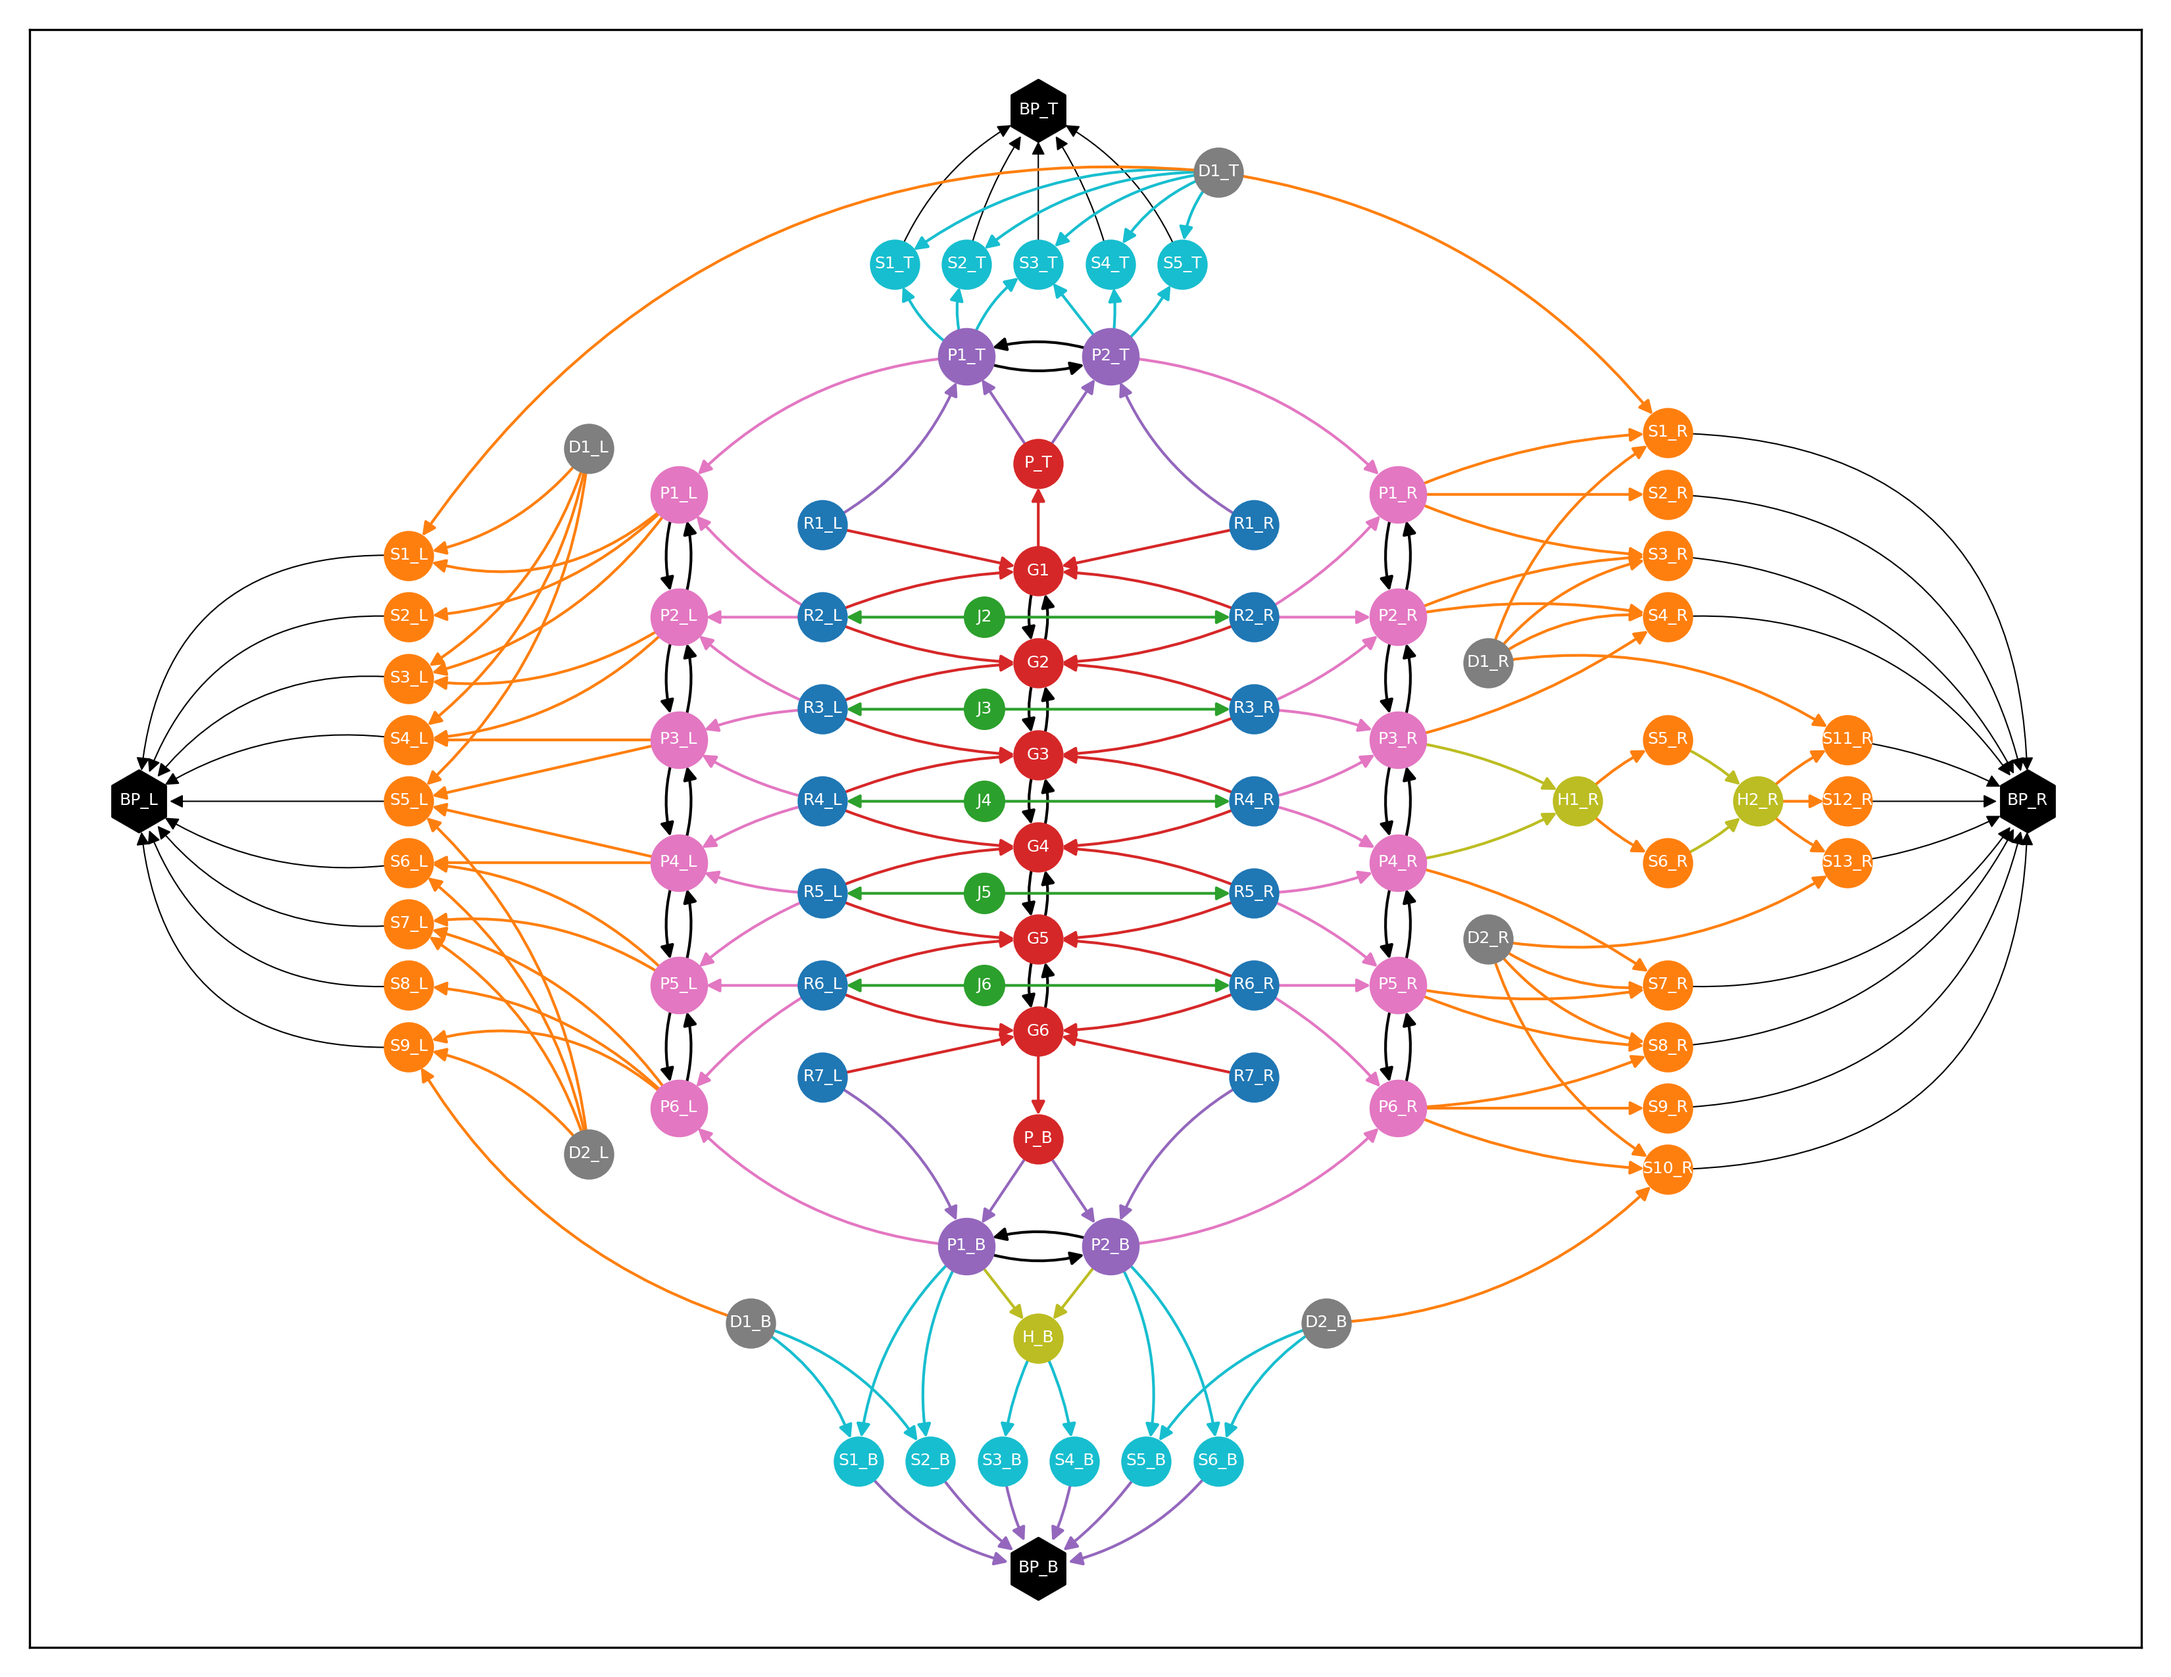
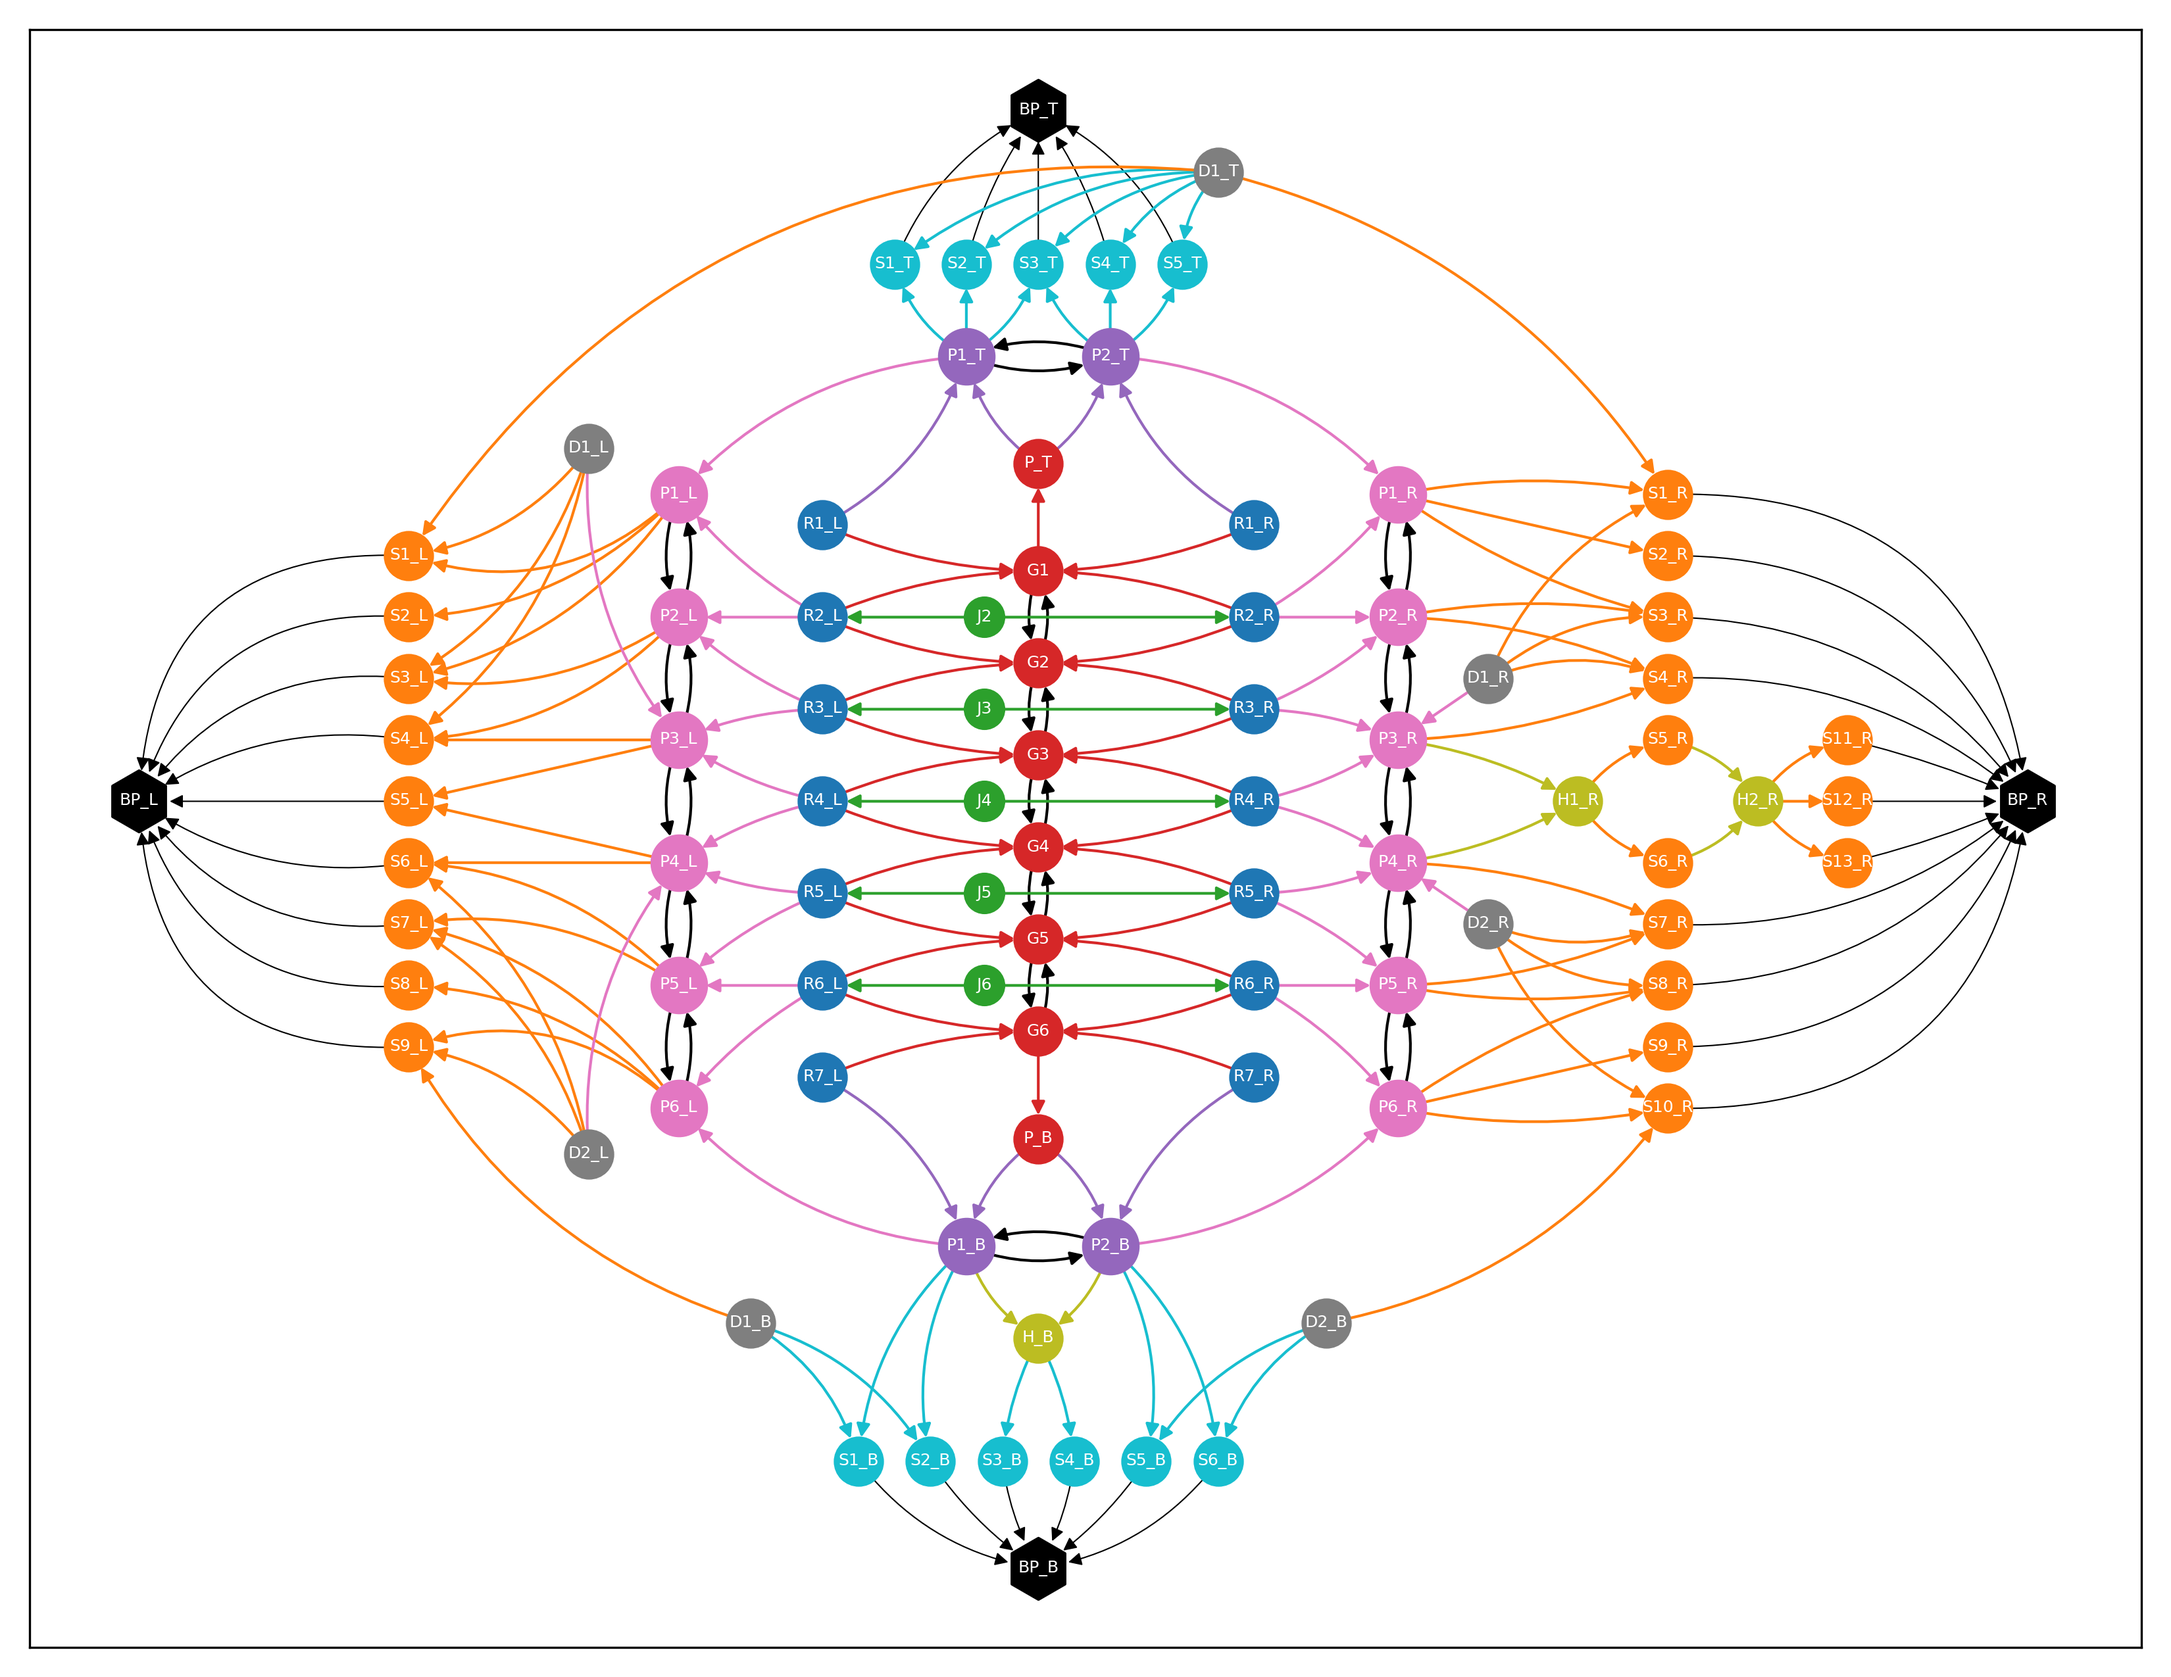
fixed diagonals in graph

diff --git a/main.py b/main.py
@@ -99,7 +99,7 @@ def draw_graph(G, pos_fixed, name):
     f = plt.gcf()
     f.tight_layout()
     plt.savefig(name, dpi=300)
-    # plt.show()
+    plt.show()
 
 
 def add_nodes(G, node_data):
@@ -144,9 +144,9 @@ if __name__ == "__main__":
         add_nodes(G, node_data)
         add_edges(G, edge_data)
 
-    draw_graph(G, get_node_pos(G), "full_structure.png")
+    # draw_graph(G, get_node_pos(G), "full_structure.png")
 
     remove_member = "P1_B"
-    # K = phase_1(G, remove_member)
+    K = phase_1(G, remove_member)
     # draw_graph(K, get_node_pos(K), "partial_{}.png".format(remove_member))
-    # draw_graph(K, get_node_pos(K), "partial_.png")
+    draw_graph(K, get_node_pos(K), "partial_.png")
